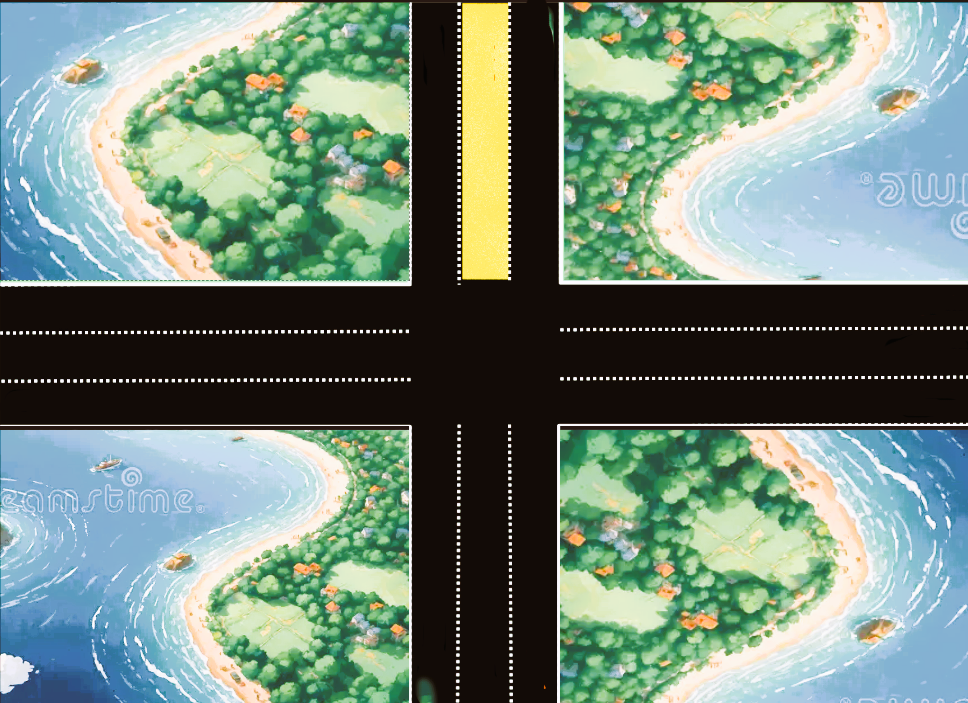
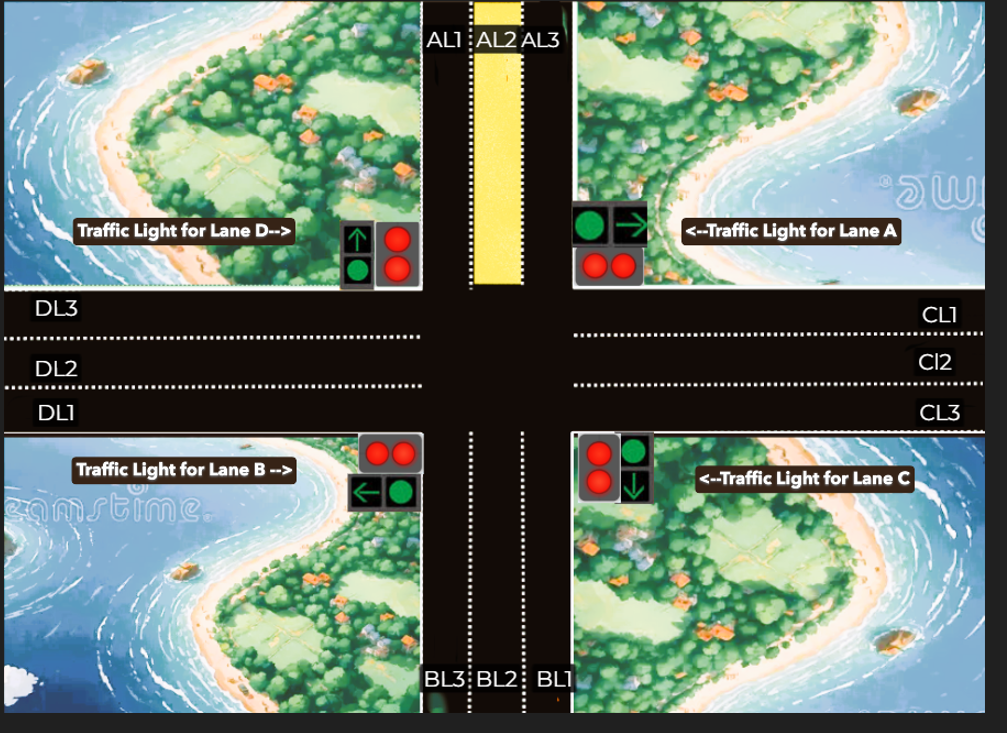
Addidion of pygame rects for lanes and traffic light and addidion of car.png

diff --git a/calibration_lanes.py b/calibration_lanes.py
@@ -1,0 +1,154 @@
+
+import pygame
+import sys
+
+# -------------------------------
+# Initialize pygame
+# -------------------------------
+pygame.init()
+
+# -------------------------------
+# Window setup
+# -------------------------------
+WIDTH, HEIGHT = 1000, 800   # adjust if your image is different
+screen = pygame.display.set_mode((WIDTH, HEIGHT))
+pygame.display.set_caption("Lane Calibration Mode")
+
+clock = pygame.time.Clock()
+FPS = 60
+
+# -------------------------------
+# Load background image
+# -------------------------------
+background = pygame.image.load("lanesystem.png").convert_alpha()
+bg_rect = background.get_rect(topleft=(0, 0))
+
+# -------------------------------
+# Font for mouse coordinates
+# -------------------------------
+font = pygame.font.SysFont(None, 24)
+
+# -------------------------------
+# INITIAL lane rectangle guesses
+# (You will MODIFY these values)
+# -------------------------------
+
+# Vertical road (A → C)
+AL1_RECT = pygame.Rect(440, 0, 40, 287)
+AL2_RECT = pygame.Rect(480, 0, 40, 287)
+AL3_RECT = pygame.Rect(520, 0, 40, 287)
+
+BL1_RECT = pygame.Rect(440, 420, 40, 380)
+BL2_RECT = pygame.Rect(480, 420, 40, 380)
+BL3_RECT = pygame.Rect(520, 420, 40, 380)
+
+
+# LEFT road → Lane D (horizontal → right)
+DL1_RECT = pygame.Rect(0, 284, 420, 40)
+DL2_RECT = pygame.Rect(0, 340, 420, 40)
+DL3_RECT = pygame.Rect(0, 387, 420, 40)
+
+# RIGHT road → Lane C (horizontal ← left)
+CL1_RECT = pygame.Rect(572, 285, 480, 40)
+CL2_RECT = pygame.Rect(572, 338, 480, 40)
+CL3_RECT = pygame.Rect(572, 384, 480, 40)
+
+
+lane_rects = {
+    # Top
+    "AL1": AL1_RECT, "AL2": AL2_RECT, "AL3": AL3_RECT,
+
+    # Bottom
+    "BL1": BL1_RECT, "BL2": BL2_RECT, "BL3": BL3_RECT,
+
+    # Right
+    "CL1": CL1_RECT, "CL2": CL2_RECT, "CL3": CL3_RECT,
+
+    # Left
+    "DL1": DL1_RECT, "DL2": DL2_RECT, "DL3": DL3_RECT,
+}
+
+
+# -------------------------------
+# Traffic light rectangles
+# (Each road has RED + GREEN)
+# -------------------------------
+
+# Road A (top → down)
+LIGHT_A_GREEN = pygame.Rect(572, 202, 70, 40)
+LIGHT_A_RED   = pygame.Rect(572, 247, 70, 40)
+
+# Road B (left → right)
+LIGHT_B_GREEN = pygame.Rect(347, 475, 70, 36)
+LIGHT_B_RED   = pygame.Rect(356, 433, 70, 36)
+
+# Road C (bottom → up)
+LIGHT_C_GREEN = pygame.Rect(620, 432, 36, 70)
+LIGHT_C_RED   = pygame.Rect(579, 437, 36, 64)
+
+# Road D (right → left)
+LIGHT_D_GREEN = pygame.Rect(341, 222, 36, 64)
+LIGHT_D_RED   = pygame.Rect(377, 225, 36, 64)
+
+light_rects = {
+    "A": {"GREEN": LIGHT_A_GREEN, "RED": LIGHT_A_RED},
+    "B": {"GREEN": LIGHT_B_GREEN, "RED": LIGHT_B_RED},
+    "C": {"GREEN": LIGHT_C_GREEN, "RED": LIGHT_C_RED},
+    "D": {"GREEN": LIGHT_D_GREEN, "RED": LIGHT_D_RED},
+}
+
+
+# -------------------------------
+# Colors
+# -------------------------------
+RED = (255, 0, 0)
+YELLOW = (255, 255, 0)
+WHITE = (255, 255, 255)
+
+# -------------------------------
+# Main loop
+# -------------------------------
+running = True
+while running:
+    for event in pygame.event.get():
+        if event.type == pygame.QUIT:
+            running = False
+
+    # Clear screen
+    screen.fill((0, 0, 0))
+
+    # Draw background
+    screen.blit(background, bg_rect)
+
+    # Draw lane overlays
+    for lane, rect in lane_rects.items():
+        color = YELLOW if lane == "AL2" else RED  # highlight priority lane
+        pygame.draw.rect(screen, color, rect, 2)
+
+        # Draw lane label
+        label = font.render(lane, True, WHITE)
+        screen.blit(label, (rect.x + 5, rect.y + 5))
+    # Draw traffic light overlays
+    # Draw traffic light overlays
+    for road, lights in light_rects.items():
+       pygame.draw.rect(screen, (0, 255, 0), lights["GREEN"], 2)
+       pygame.draw.rect(screen, (255, 0, 0), lights["RED"], 2)
+
+       label = font.render(f"Light {road}", True, WHITE)
+       screen.blit(label, (lights["GREEN"].x - 5, lights["GREEN"].y - 20))
+
+
+    # Show mouse coordinates
+    mouse_x, mouse_y = pygame.mouse.get_pos()
+    coord_text = font.render(f"Mouse: ({mouse_x}, {mouse_y})", True, WHITE)
+    screen.blit(coord_text, (10, 10))
+
+    # Update display
+    pygame.display.flip()
+    clock.tick(FPS)
+
+# -------------------------------
+# Exit cleanly
+# -------------------------------
+pygame.quit()
+sys.exit()
